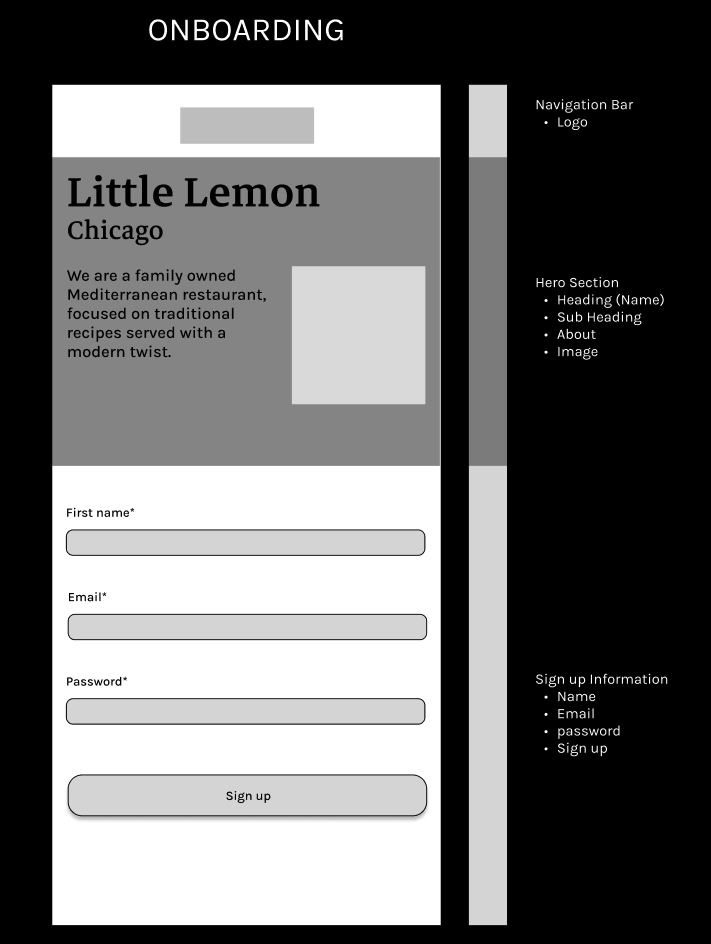
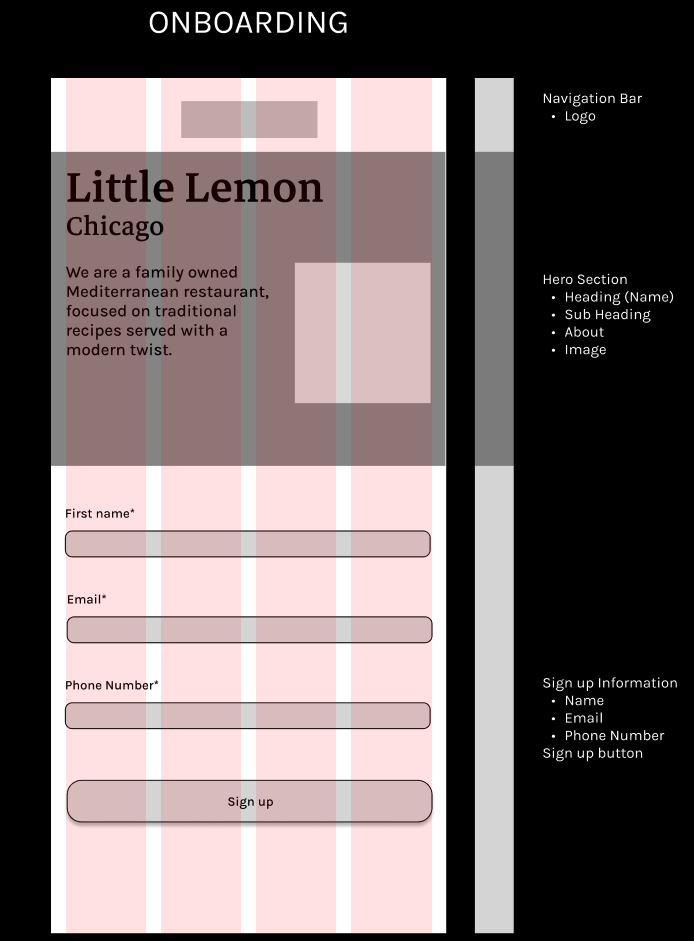
handle UserProvider

diff --git a/src/components/molecules/sign-up-section/SignUpSection.tsx b/src/components/molecules/sign-up-section/SignUpSection.tsx
@@ -1,14 +1,42 @@
 import { StyleSheet, View } from "react-native";
 import { GenericTextInput } from "../../atoms/generic-text-input/GenericInput";
 import { SubmitButton } from "../../atoms/submit-button/SubmitButton";
+import { useRef } from "react";
+import { useUser } from "../../atoms/user-provider/user.context";
+import { useRouter } from "expo-router";
 
 export function SignUpSection() {
+  const firstNameRef = useRef("");
+  const EmailRef = useRef("");
+  const PhoneNumberRef = useRef("");
+  const { setUser } = useUser();
+  const router = useRouter();
+
   return (
     <View style={styles.container}>
-      <GenericTextInput label="First Name" />
-      <GenericTextInput label="Email" />
-      <GenericTextInput label="Password" />
-      <SubmitButton label="Sign Up" />
+      <GenericTextInput
+        label="First Name*"
+        onChangeText={(text) => (firstNameRef.current = text)}
+      />
+      <GenericTextInput
+        label="Email*"
+        onChangeText={(text) => (EmailRef.current = text)}
+      />
+      <GenericTextInput
+        label="Phone Number*"
+        onChangeText={(text) => (PhoneNumberRef.current = text)}
+      />
+      <SubmitButton
+        label="Sign Up"
+        onPress={() => {
+          setUser({
+            firstName: firstNameRef.current,
+            email: EmailRef.current,
+            phoneNumber: PhoneNumberRef.current,
+          });
+          router.replace("/Home");
+        }}
+      />
     </View>
   );
 }

diff --git a/src/components/atoms/user-provider/user.service.ts b/src/components/atoms/user-provider/user.service.ts
@@ -1,0 +1,50 @@
+import AsyncStorage from "@react-native-async-storage/async-storage";
+
+export type TUser = {
+  firstName: string;
+  lastName?: string;
+  email: string;
+  phoneNumber: string;
+  avatarUrl?: string;
+  notificationPreferences?: {
+    orderStatuses: boolean;
+    passwordChanges: boolean;
+    specialOffers: boolean;
+    newsletter: boolean;
+  };
+} | null;
+
+class UserService {
+  public user: TUser = null;
+
+  public constructor() {}
+
+  public async getUser(): Promise<TUser> {
+    if (!this.user) {
+      try {
+        const value = await AsyncStorage.getItem("user");
+        console.info("[getUser] Data retrieved:", value);
+        if (value !== null) {
+          this.user = JSON.parse(value);
+        }
+      } catch (e) {
+        // do nothing
+        console.error("[getUser] Error:", e);
+      }
+    }
+    return this.user;
+  }
+  public async setUser(user: TUser) {
+    await AsyncStorage.setItem("user", JSON.stringify(user));
+    this.user = user;
+    return this.user;
+  }
+
+  public async clearUser() {
+    await AsyncStorage.removeItem("user");
+    this.user = null;
+    return this.user;
+  }
+}
+
+export default new UserService();

diff --git a/src/components/atoms/user-provider/UserProvider.tsx b/src/components/atoms/user-provider/UserProvider.tsx
@@ -1,0 +1,43 @@
+import { UserContext } from "./user.context";
+import userService, { TUser } from "./user.service";
+import { useRouter } from "expo-router";
+import React, { useEffect, useState } from "react";
+
+export function UserProvider({ children }: { children: React.ReactNode }) {
+  const [user, setUser] = useState<TUser>(null);
+  const router = useRouter();
+
+  useEffect(() => {
+    // todo - need to remove clearUser
+    userService.clearUser().then(() => {
+      userService.getUser().then((user) => {
+        setUser(user);
+        if (user) {
+          router.replace("/Home");
+        } else {
+          router.replace("/Onboarding");
+        }
+      });
+    });
+  }, []);
+
+  return (
+    <UserContext.Provider
+      value={{
+        user,
+        setUser: (newUser) => {
+          userService.setUser(newUser).then(() => {
+            setUser(newUser);
+          });
+        },
+        clearUser: () => {
+          userService.clearUser().then(() => {
+            setUser(null);
+          });
+        },
+      }}
+    >
+      {children}
+    </UserContext.Provider>
+  );
+}

diff --git a/src/components/atoms/user-icon/UserIcon.tsx b/src/components/atoms/user-icon/UserIcon.tsx
@@ -1,22 +1,23 @@
-import userProvider from "@/src/providers/user.provider";
-import { useEffect, useState } from "react";
-import { Image, StyleSheet } from "react-native";
+import { useRouter } from "expo-router";
+import { Image, Pressable, StyleSheet } from "react-native";
+import { useUser } from "../user-provider/user.context";
 
 export function UserIcon() {
-  const [isVisible, setIsVisible] = useState(false);
-
-  useEffect(() => {
-    userProvider.getUser().then((user) => {
-      setIsVisible(!!user);
-    });
-  }, []);
+  const router = useRouter();
+  const { user } = useUser();
 
   return (
-    <Image
-      source={require("@/assets/images/user-icon.png")}
-      style={[styles.userIcon, { opacity: isVisible ? 1 : 0 }]}
-      resizeMode="contain"
-    />
+    <Pressable
+      onPress={() => {
+        router.navigate("/Profile");
+      }}
+    >
+      <Image
+        source={require("@/assets/images/user-icon.png")}
+        style={[styles.userIcon, { opacity: !!user ? 1 : 0 }]}
+        resizeMode="contain"
+      />
+    </Pressable>
   );
 }
 

diff --git a/src/components/atoms/generic-text-input/GenericInput.tsx b/src/components/atoms/generic-text-input/GenericInput.tsx
@@ -2,12 +2,16 @@ import { StyleSheet, Text, TextInput, View } from "react-native";
 
 type GenericTextInputProps = {
   label: string;
+  onChangeText: (text: string) => void;
 };
-export function GenericTextInput({ label }: GenericTextInputProps) {
+export function GenericTextInput({
+  label,
+  onChangeText,
+}: GenericTextInputProps) {
   return (
     <View style={styles.container}>
       <Text style={styles.label}>{label}</Text>
-      <TextInput style={styles.inputText} />
+      <TextInput style={styles.inputText} onChangeText={onChangeText} />
     </View>
   );
 }

diff --git a/app/_layout.tsx b/app/_layout.tsx
@@ -1,3 +1,5 @@
+import { UserProvider } from "@/src/components/atoms/user-provider/UserProvider";
+import { Header } from "@/src/components/molecules/header/Header";
 import { Slot } from "expo-router";
 import { StyleSheet, View } from "react-native";
 import { useSafeAreaInsets } from "react-native-safe-area-context";
@@ -7,7 +9,10 @@ export default function RootLayout() {
 
   return (
     <View style={[styles.container, { paddingTop: insets.top }]}>
-      <Slot />
+      <UserProvider>
+        <Header />
+        <Slot />
+      </UserProvider>
     </View>
   );
 }

diff --git a/app/index.tsx b/app/index.tsx
@@ -1,24 +1,3 @@
-import userProvider from "@/src/providers/user.provider";
-import { useRouter } from "expo-router";
-import { useEffect } from "react";
-import { Text, View } from "react-native";
-
 export default function Index() {
-  const router = useRouter();
-
-  useEffect(() => {
-    userProvider.getUser().then((user) => {
-      if (user) {
-        router.replace("/Home");
-      } else {
-        router.replace("/Onboarding");
-      }
-    });
-  }, []);
-
-  return (
-    <View>
-      <Text>Loading...</Text>
-    </View>
-  );
+  return null;
 }

diff --git a/src/components/atoms/back-button/BackButton.tsx b/src/components/atoms/back-button/BackButton.tsx
@@ -1,13 +1,13 @@
-import { useRouter } from "expo-router";
-import { useEffect } from "react";
+import { useRouter, usePathname } from "expo-router";
 import { Image, Pressable, StyleSheet } from "react-native";
 
 export function BackButton() {
   const router = useRouter();
+  const pathName = usePathname();
 
   return (
     <Pressable
-      style={[styles.button, { opacity: router.canGoBack() ? 1 : 0 }]}
+      style={[styles.button, { opacity: pathName === "/Profile" ? 1 : 0 }]}
       onPress={() => router.back()}
     >
       <Image

diff --git a/src/components/atoms/user-provider/user.context.ts b/src/components/atoms/user-provider/user.context.ts
@@ -1,0 +1,20 @@
+import { TUser } from "@/src/components/atoms/user-provider/user.service";
+import { createContext, useContext } from "react";
+
+type TUserContext = {
+  user: TUser;
+  setUser: (user: TUser) => void;
+  clearUser: () => void;
+};
+
+const UserContext = createContext<TUserContext>({
+  user: null,
+  setUser: () => {},
+  clearUser: () => {},
+});
+
+const useUser = () => {
+  return useContext(UserContext);
+};
+
+export { useUser, UserContext };

diff --git a/app/Onboarding.tsx b/app/Onboarding.tsx
@@ -5,8 +5,7 @@ import { Text, View } from "react-native";
 
 export default function Onboarding() {
   return (
-    <View style={{ flex: 1 }}>
-      <Header />
+    <View>
       <HeroSection />
       <SignUpSection />
     </View>

diff --git a/app/Profile.tsx b/app/Profile.tsx
@@ -4,7 +4,6 @@ import { Text, View } from "react-native";
 export default function Profile() {
   return (
     <View>
-      <Header />
       <Text>Profile</Text>
     </View>
   );

diff --git a/app/Home.tsx b/app/Home.tsx
@@ -5,7 +5,6 @@ import { Text, View } from "react-native";
 export default function Home() {
   return (
     <View>
-      <Header />
       <HeroSection />
     </View>
   );
